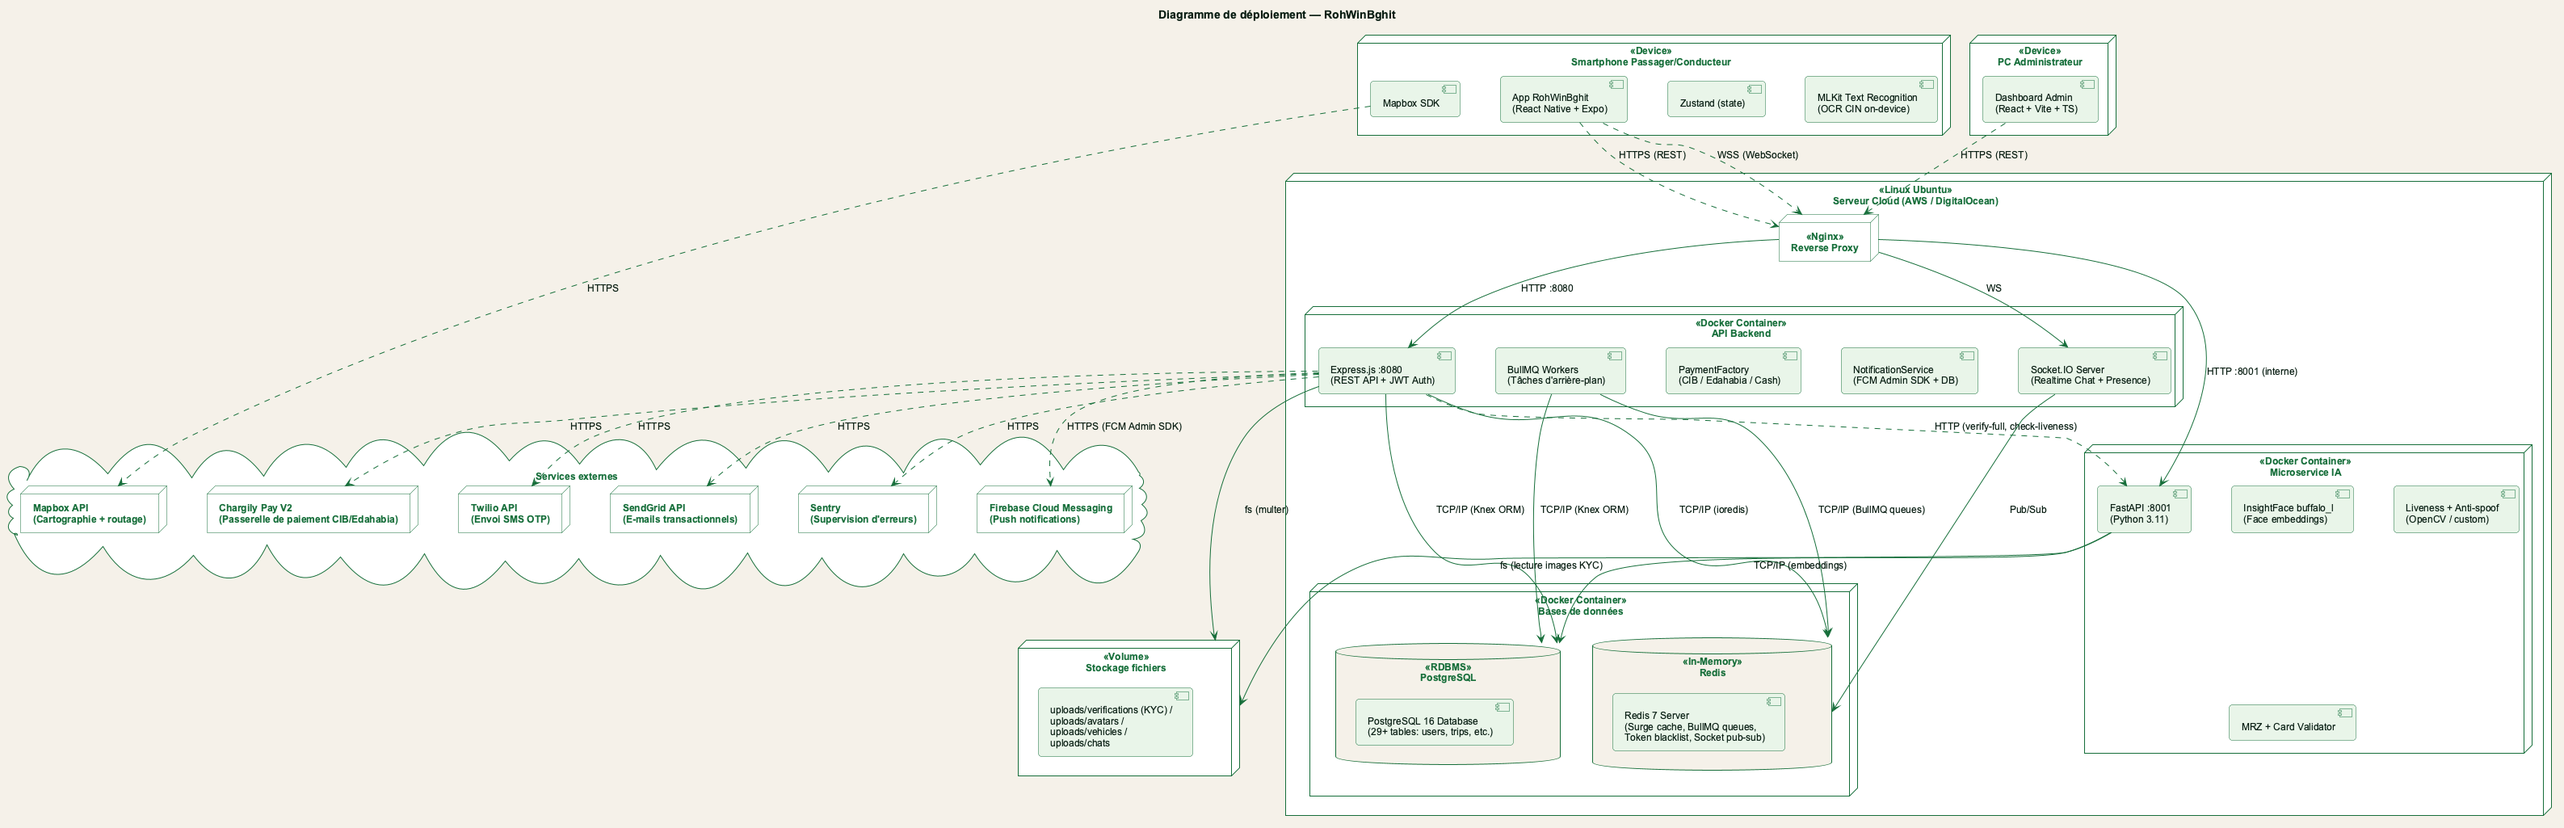
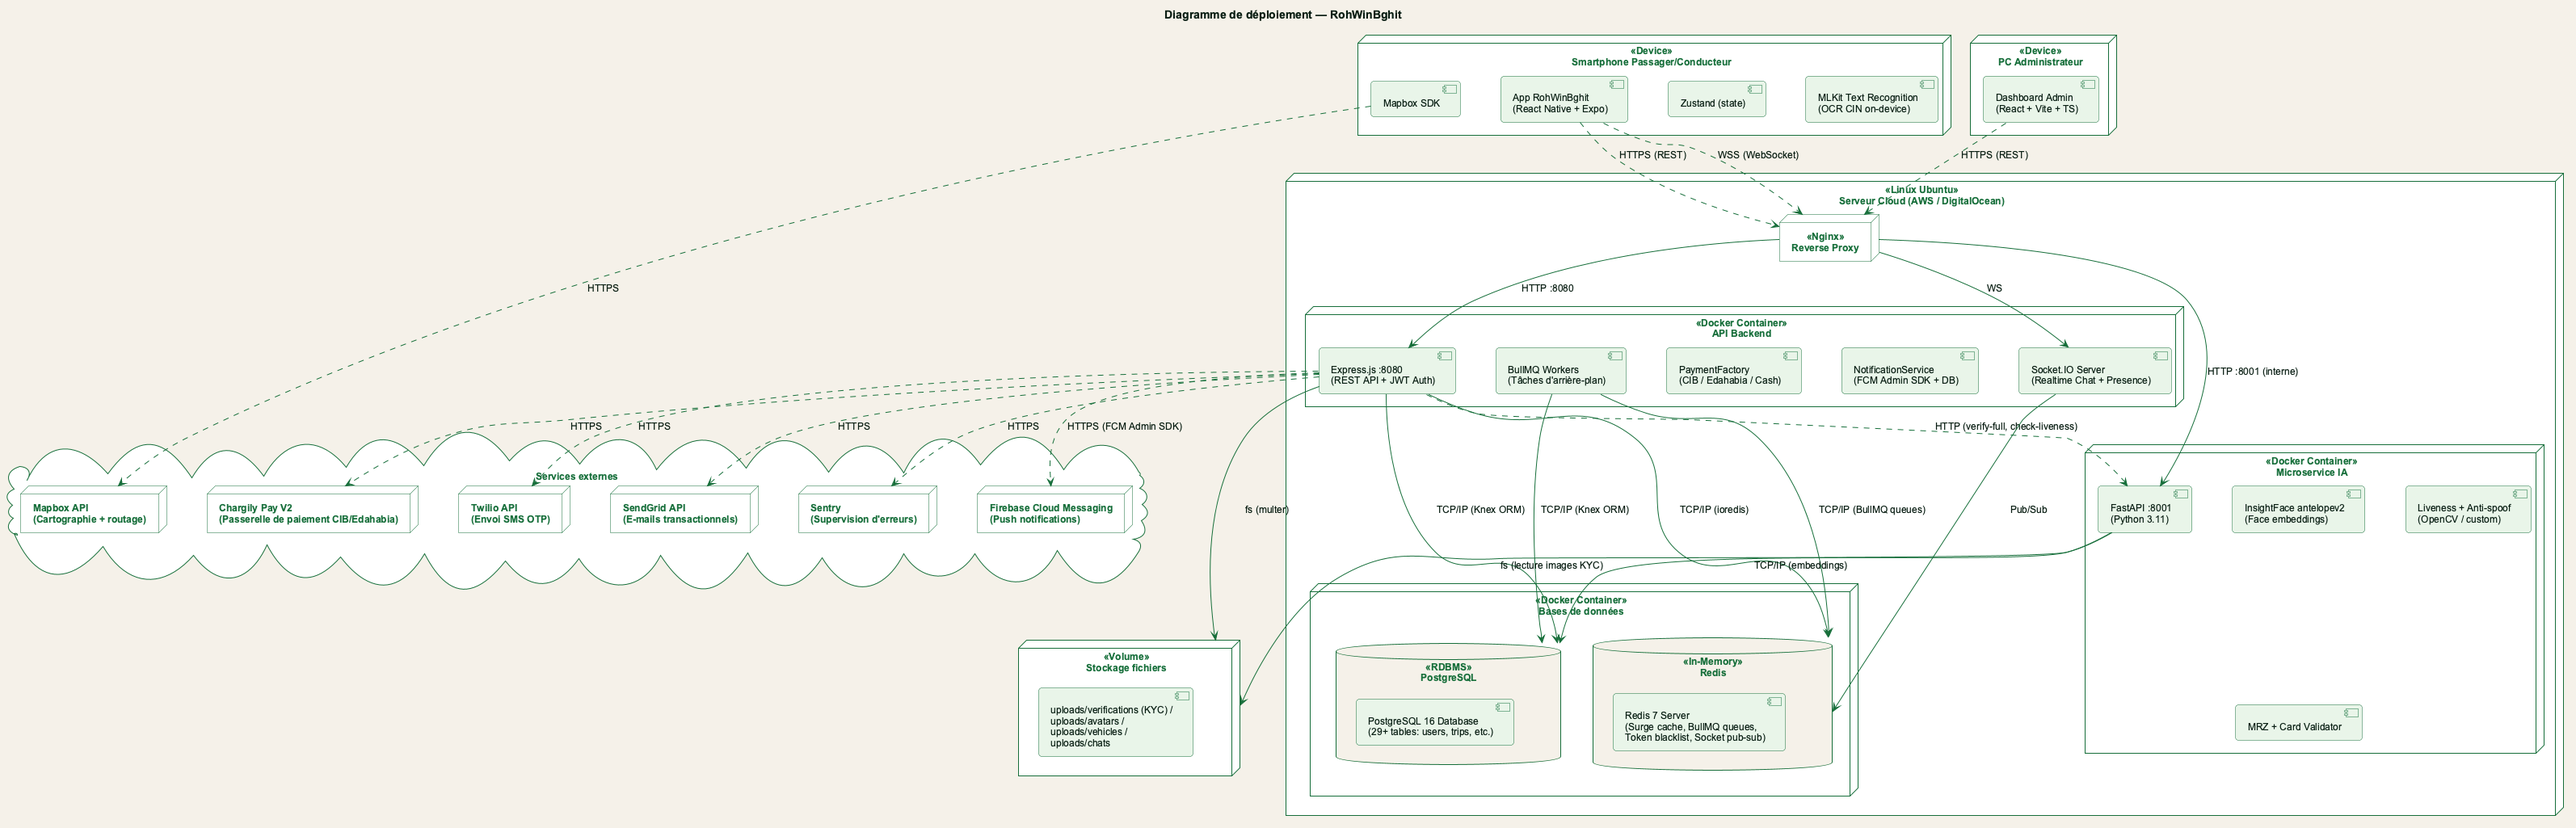
feat(diagrams): replace buffalo_l with antelopev2 in architecture, deployment, and kyc diagrams

diff --git a/Generate rohwinbghit.js b/Generate rohwinbghit.js
@@ -838,7 +838,7 @@ async function buildPresentation() {
 
         archBox(0.5, 1.4, 4.4, 0.75, "📱 CLIENTS", ["App Mobile (React Native / Expo SDK 54)", "Dashboard Web d'Administration (React / Vite)"], C.accentGreen, 65);
         archBox(0.5, 2.22, 4.4, 1.05, "⚙ BACKEND principal (Express.js)", ["Passerelle API, routage géographique, surge pricing", "PaymentFactory (CIB, Edahabia, Cash)", "Queues asynchrones avec BullMQ 5.71"], C.accentGreen, 70);
-        archBox(0.5, 3.35, 4.4, 0.75, "🧠 SERVICE IA (FastAPI)", ["Inférence d'InsightFace (buffalo_l)", "Vivacité active & détection anti-spoofing"], C.accentGreen, 65);
+        archBox(0.5, 3.35, 4.4, 0.75, "🧠 SERVICE IA (FastAPI)", ["Inférence d'InsightFace (antelopev2)", "Vivacité active & détection anti-spoofing"], C.accentGreen, 65);
         archBox(0.5, 4.18, 4.4, 0.8, "💾 PERSISTANCE & CACHE", ["PostgreSQL 16 (verrous ACID FOR UPDATE)", "Redis 7 (cache de session et BullMQ queues)"], C.gold, 70);
 
         // Right Panel: Deployment Diagram Container
@@ -864,7 +864,7 @@ async function buildPresentation() {
 
         const steps = [
             [icons.idCard, "1. Extraction OCR de la CIN", "Validation de la présence de la carte d'identité, contrôle de format et extraction du nom/prénom."],
-            [icons.brain, "2. Comparaison faciale", "Extraction d'embeddings faciaux à 512 dimensions par ArcFace (buffalo_l) et calcul de la distance cosinus."],
+            [icons.brain, "2. Comparaison faciale", "Extraction d'embeddings faciaux à 512 dimensions par ArcFace (antelopev2) et calcul de la distance cosinus."],
             [icons.stopwatch, "3. Détection de vivacité", "Vérification active de la présence physique (anti-spoofing) par analyse du mouvement (flux vidéo)."]
         ];
 

diff --git a/BMC_RohWinBghit.tex b/BMC_RohWinBghit.tex
@@ -282,7 +282,7 @@ Université Abou Bekr Belkaïd Tlemcen\par}
   \item \textbf{Backend :} Node.js 18+, Express.js, PostgreSQL 14+, Redis (cache), Socket.io (temps réel).
   \item \textbf{Frontend Web :} React 18, TypeScript, Vite, Tailwind CSS, Zustand, TanStack Query.
   \item \textbf{Mobile :} React Native 0.81, Expo SDK 54, Mapbox, Expo SecureStore, Expo LocalAuthentication.
-  \item \textbf{IA :} Python FastAPI, InsightFace, OpenCV, ONNX Runtime, modèle buffalo\_l.
+  \item \textbf{IA :} Python FastAPI, InsightFace, OpenCV, ONNX Runtime, modèle antelopev2.
   \item \textbf{Infrastructure :} Docker, docker-compose, EAS Build (Expo), GitHub Actions CI/CD.
   \item \textbf{Services tiers :} Firebase (push), SendGrid (email), Twilio (SMS), Chargily.
 \end{itemize}
